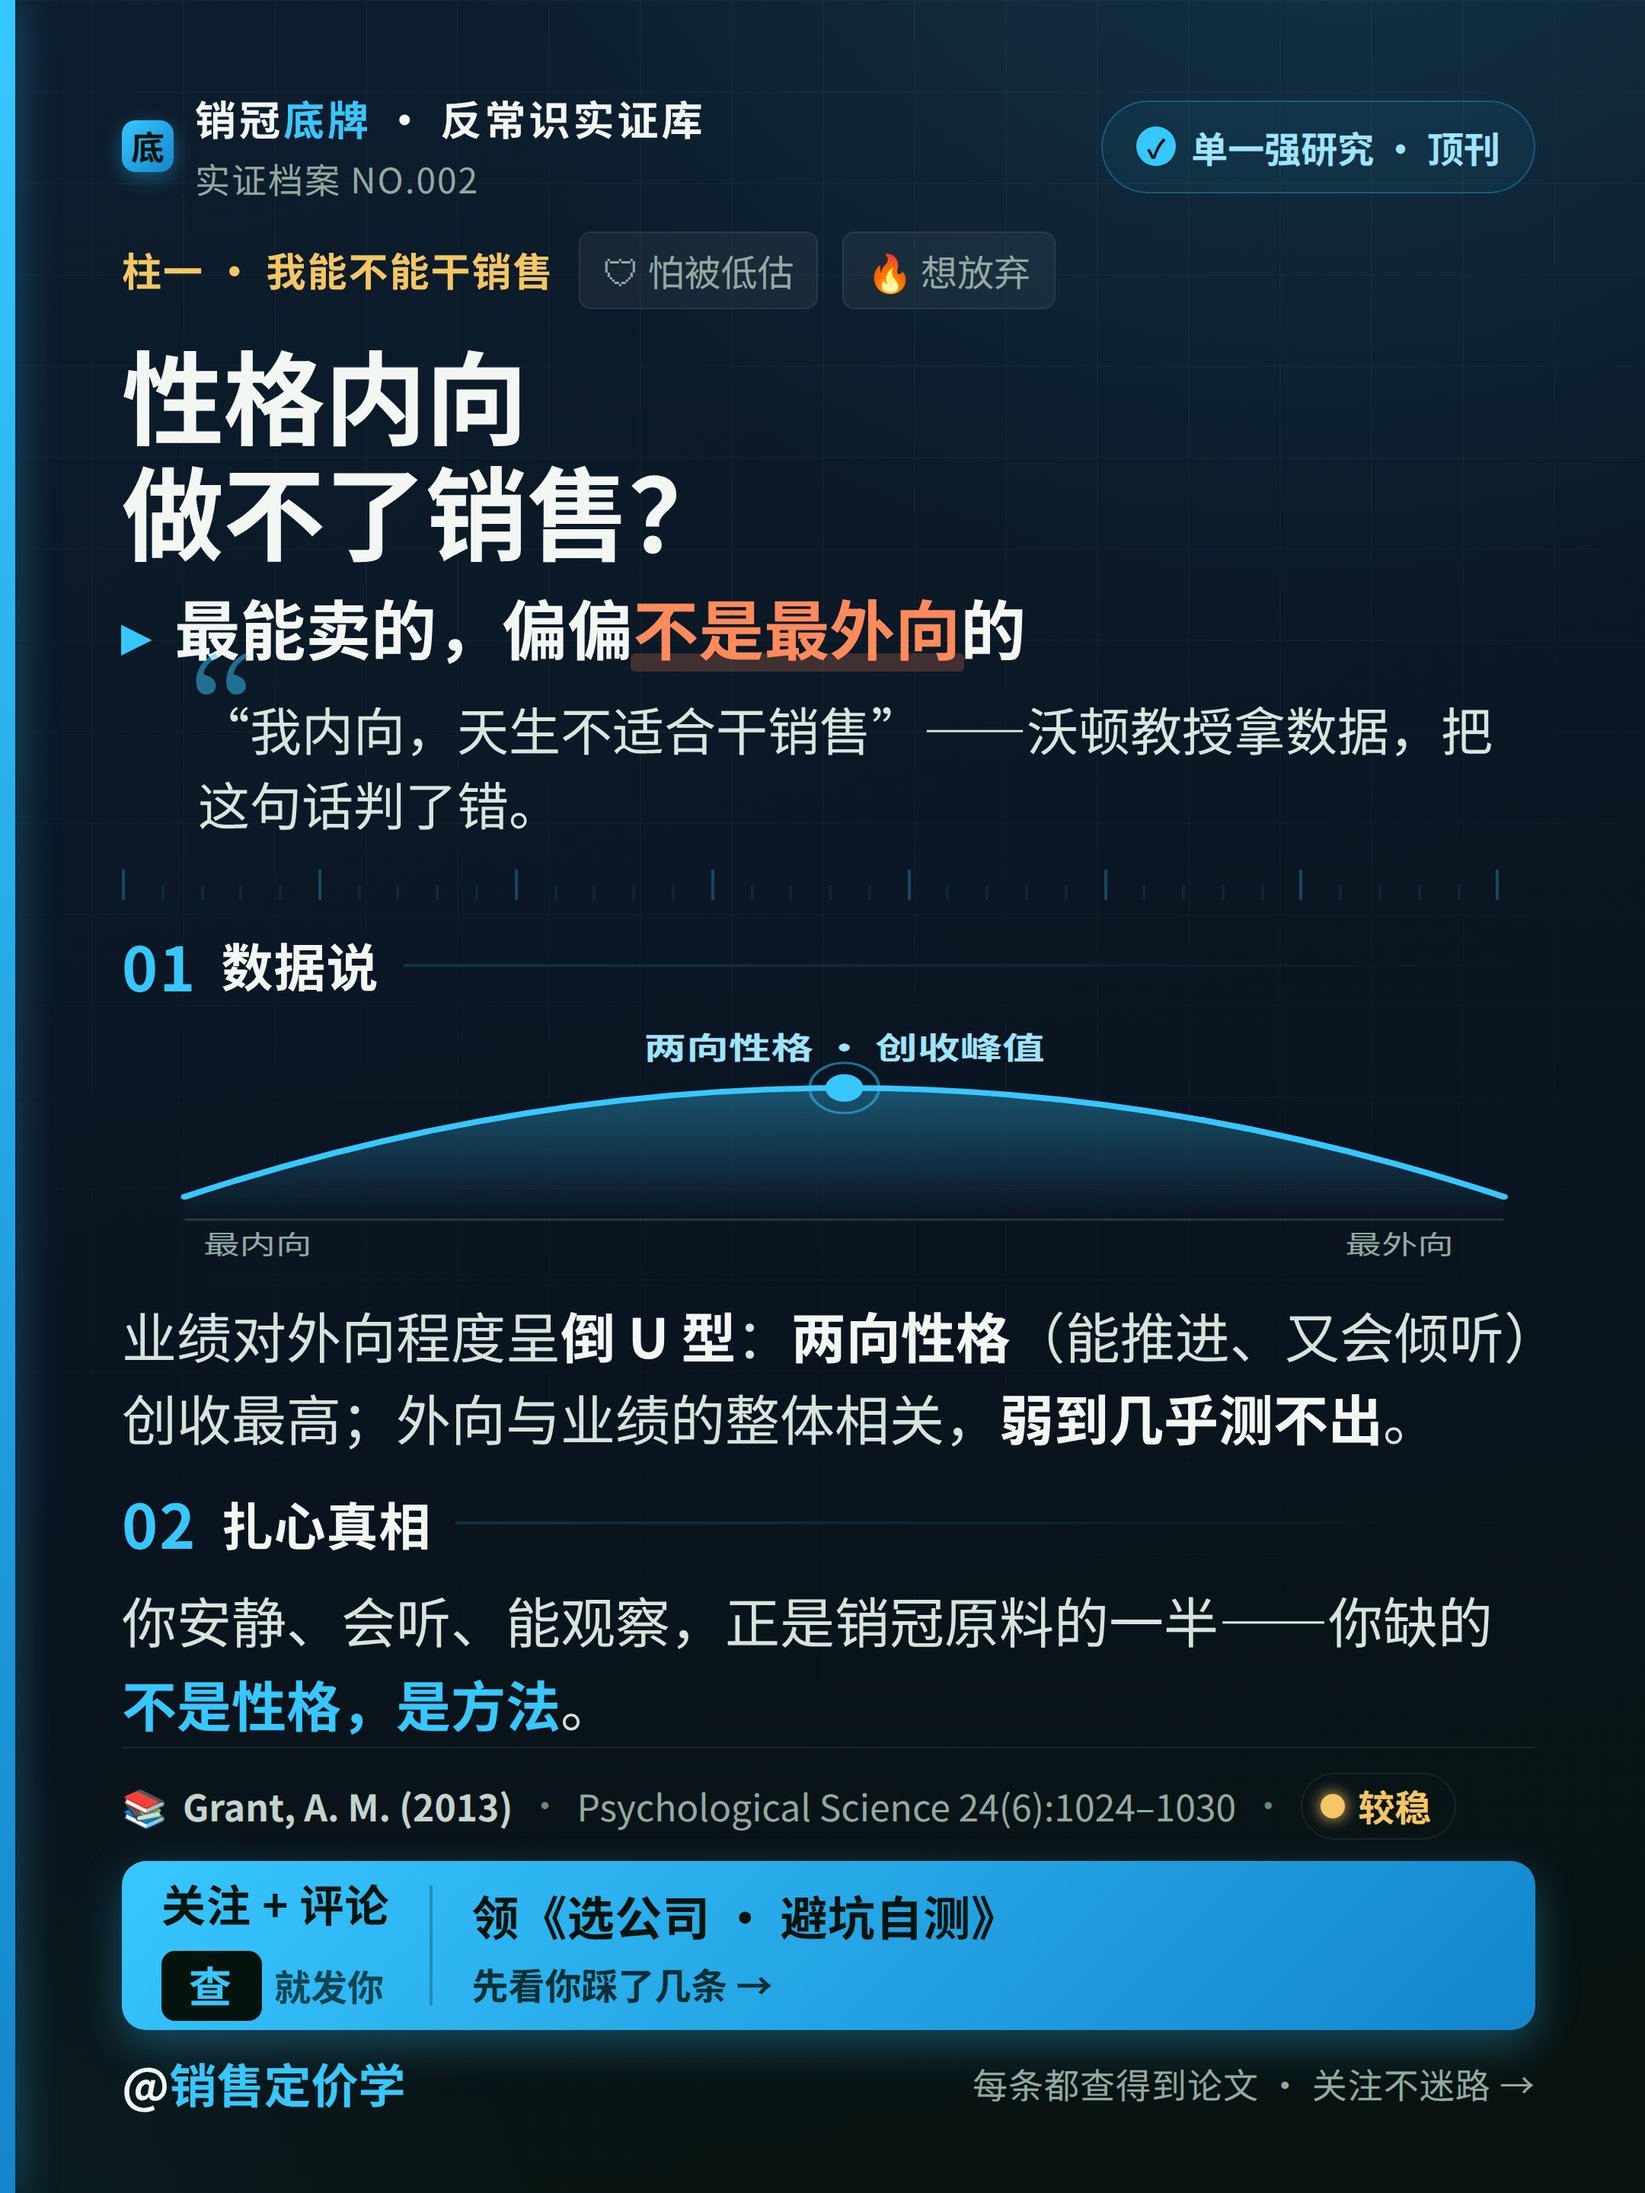
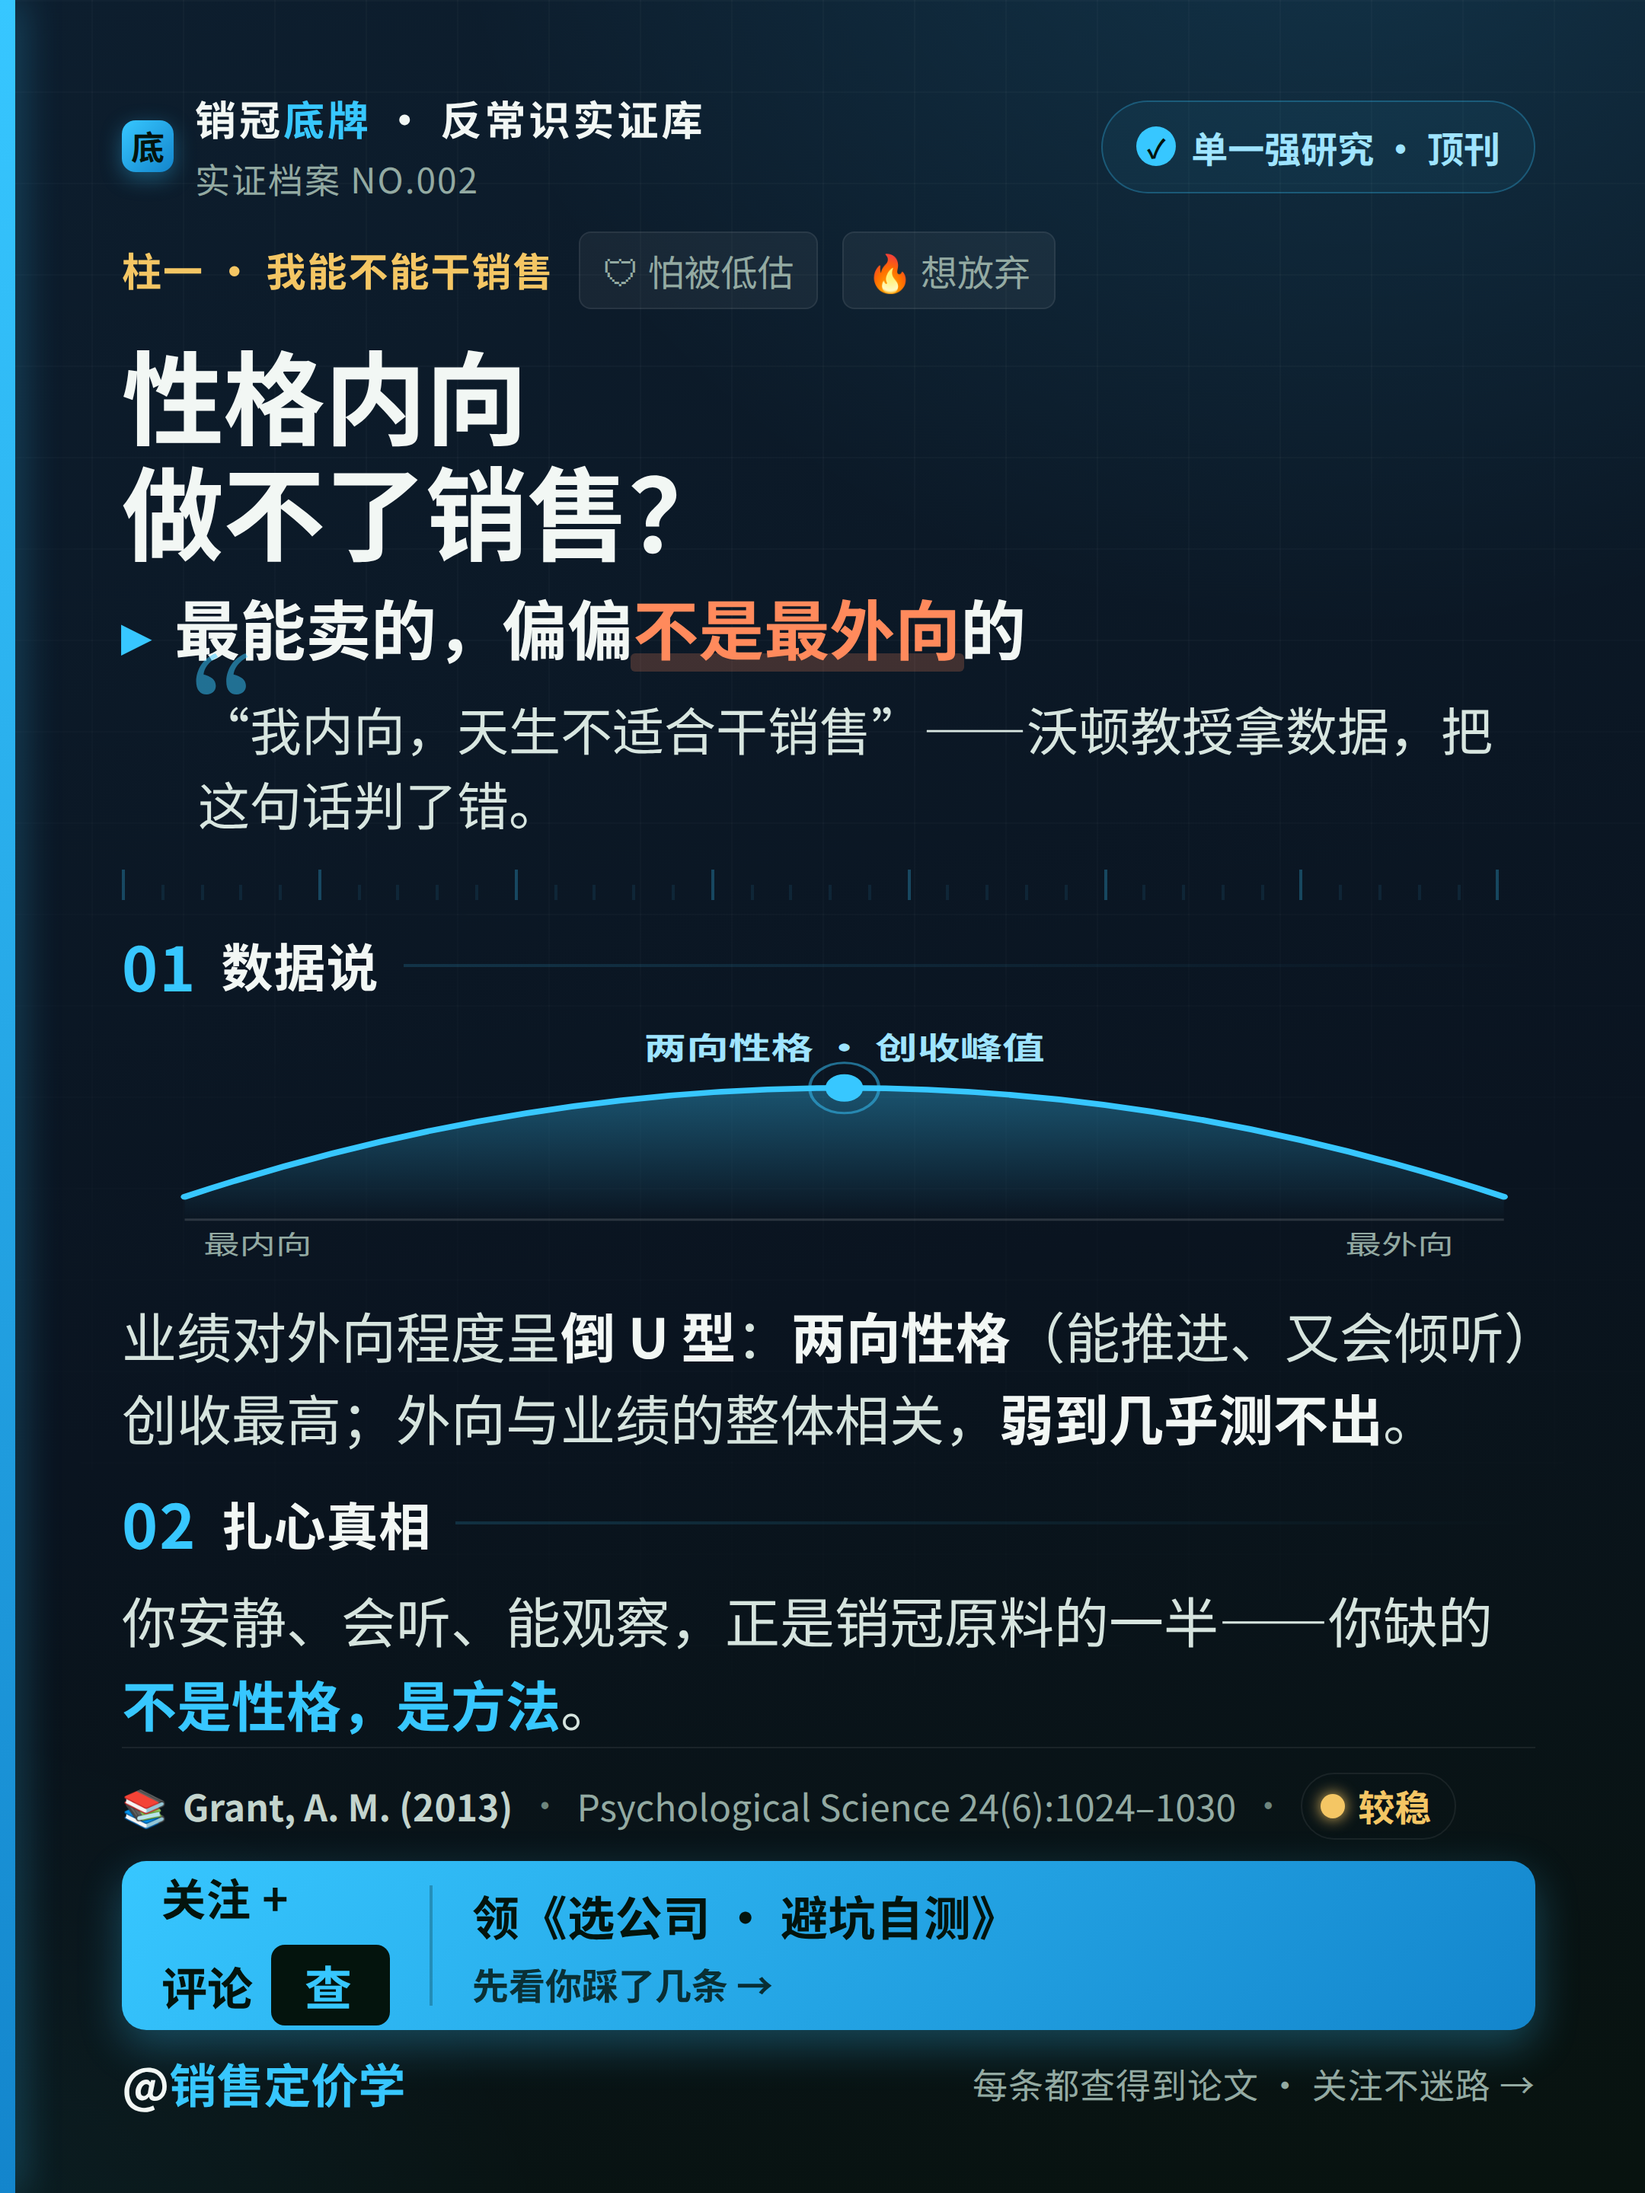
定稿青蓝配色 + 钩子左格优化
- 签名色锁定青蓝 Azure（:root 默认）
- 钩子左格改为「关注 + / 评论 查」，查为暗色口令chip，删去就发你
- 一眼可读：评论 查

Changed region(s): [[0.0931, 0.8438, 0.2481, 0.9375]]

diff --git a/cards/cards.html b/cards/cards.html
@@ -6,15 +6,15 @@
 <title>销冠底牌 · 实证档案卡</title>
 <style>
   :root{
-    /* —— 可切换的签名色（只有这一组变量随主题改变，其余全部不动）—— */
-    --acc:#2FE0A0;            /* 主签名色 */
-    --acc-rgb:47,224,160;
-    --acc-2:#7DF3C8;          /* 浅色调（徽章文字/图表标签）*/
-    --acc-deep:#14a978;       /* 深色调（竖脊/CTA渐变下端）*/
-    --ink-0:#0A1613;          /* 底色 深 */
-    --ink-1:#0E201A;          /* 底色 渐变上端 */
-    --rev:#FF7A66;            /* 唯一的"扎心/反转"点睛色 */
-    --rev-rgb:255,122,102;
+    /* —— 签名色：青蓝 Azure（定稿）—— */
+    --acc:#37C7FF;            /* 主签名色 */
+    --acc-rgb:55,199,255;
+    --acc-2:#9FE4FF;          /* 浅色调（徽章文字/图表标签）*/
+    --acc-deep:#1385CC;       /* 深色调（竖脊/CTA渐变下端）*/
+    --ink-0:#0A1420;          /* 底色 深 */
+    --ink-1:#0D1E2E;          /* 底色 渐变上端 */
+    --rev:#FF8A5C;            /* 唯一的"扎心/反转"点睛色 */
+    --rev-rgb:255,138,92;
 
     /* —— 固定不变 —— */
     --surface:rgba(255,255,255,.035);
@@ -140,10 +140,10 @@
   .convert .left{display:flex;flex-direction:column;justify-content:center;gap:8px;
     padding:16px 26px;white-space:nowrap;}
   .convert .left .act{font-size:29px;font-weight:900;letter-spacing:.5px;}
-  .convert .left .chip{display:inline-flex;align-items:center;gap:8px;margin-top:2px;}
-  .convert .left .chip b{background:#04140d;color:var(--acc);font-weight:900;font-size:28px;
-    padding:3px 18px;border-radius:9px;letter-spacing:2px;}
-  .convert .left .chip span{font-size:24px;font-weight:800;opacity:.7;}
+  .convert .left .chip{display:inline-flex;align-items:center;gap:12px;margin-top:2px;
+    font-size:30px;font-weight:900;}
+  .convert .left .chip b{background:#04140d;color:var(--acc);font-weight:900;font-size:31px;
+    padding:4px 22px;border-radius:9px;letter-spacing:3px;}
   .convert .div{width:2px;background:rgba(4,20,13,.25);margin:16px 0;}
   .convert .right{flex:1;display:flex;flex-direction:column;justify-content:center;gap:5px;
     padding:14px 26px;}
@@ -266,8 +266,8 @@ function render(c){
     </div>
     <div class="convert">
       <div class="left">
-        <div class="act">关注 + 评论</div>
-        <div class="chip"><b>查</b><span>就发你</span></div>
+        <div class="act">关注 +</div>
+        <div class="chip">评论 <b>查</b></div>
       </div>
       <div class="div"></div>
       <div class="right">
